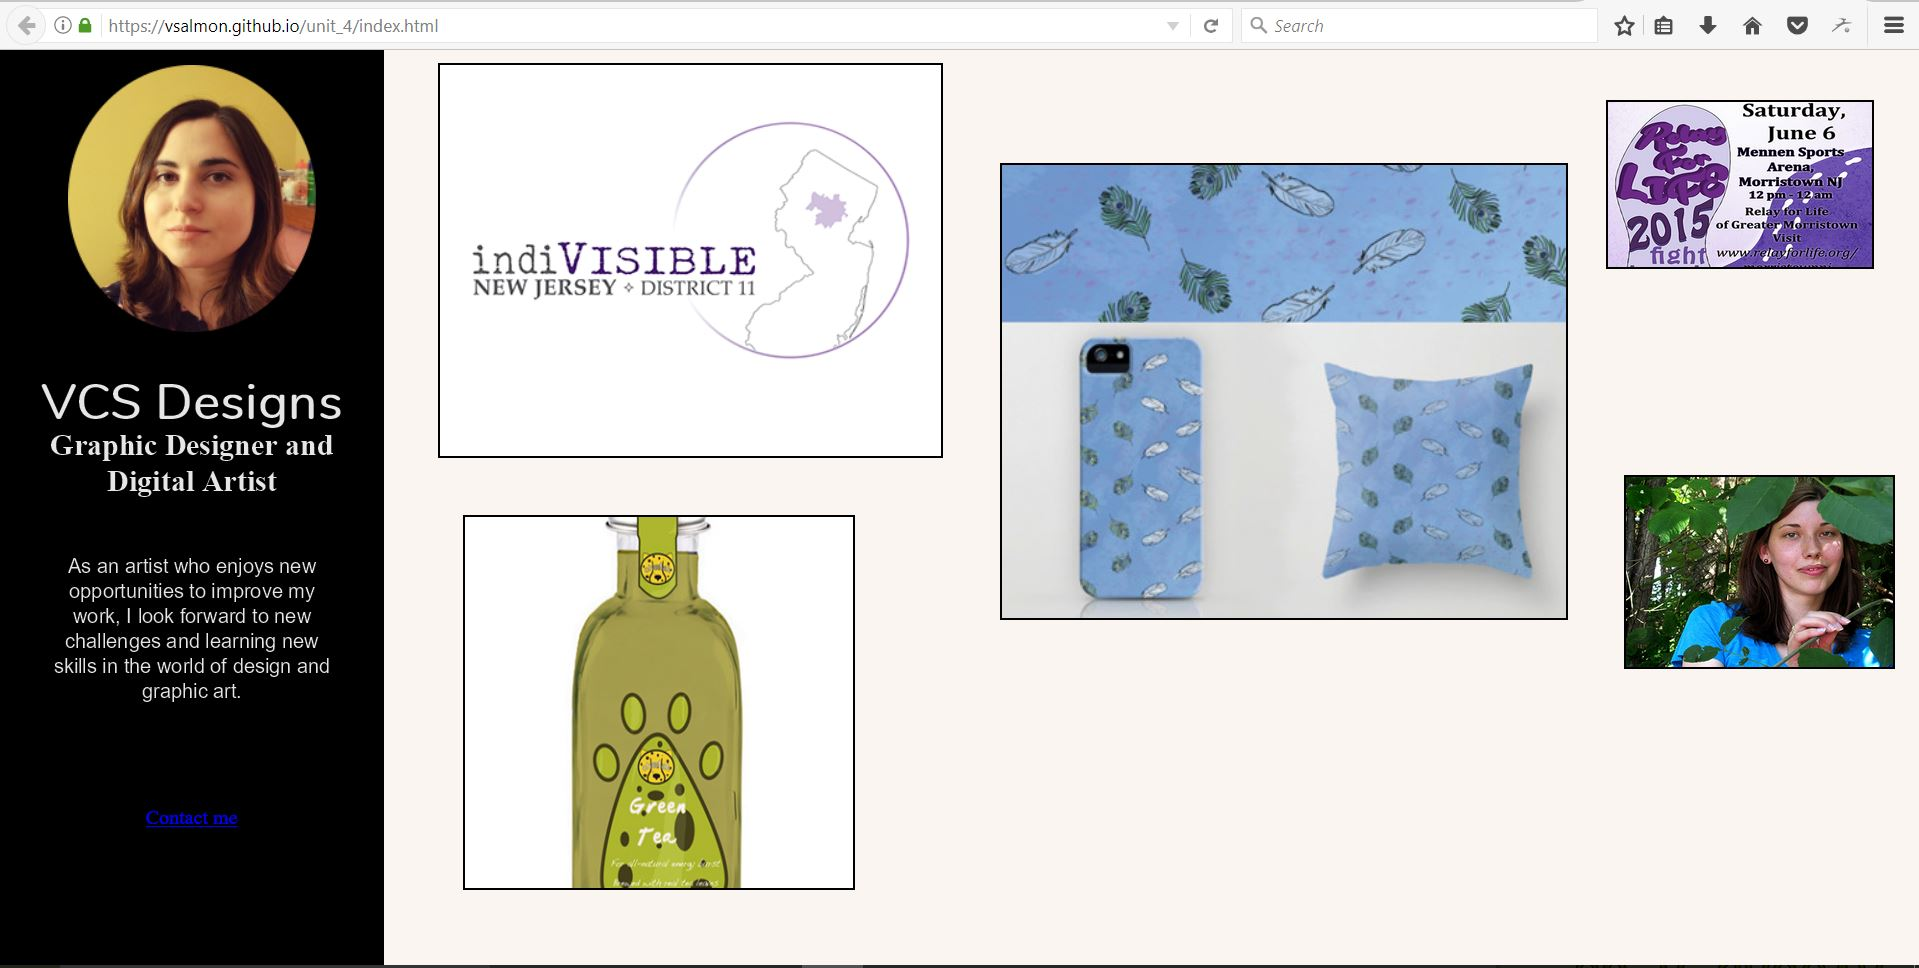
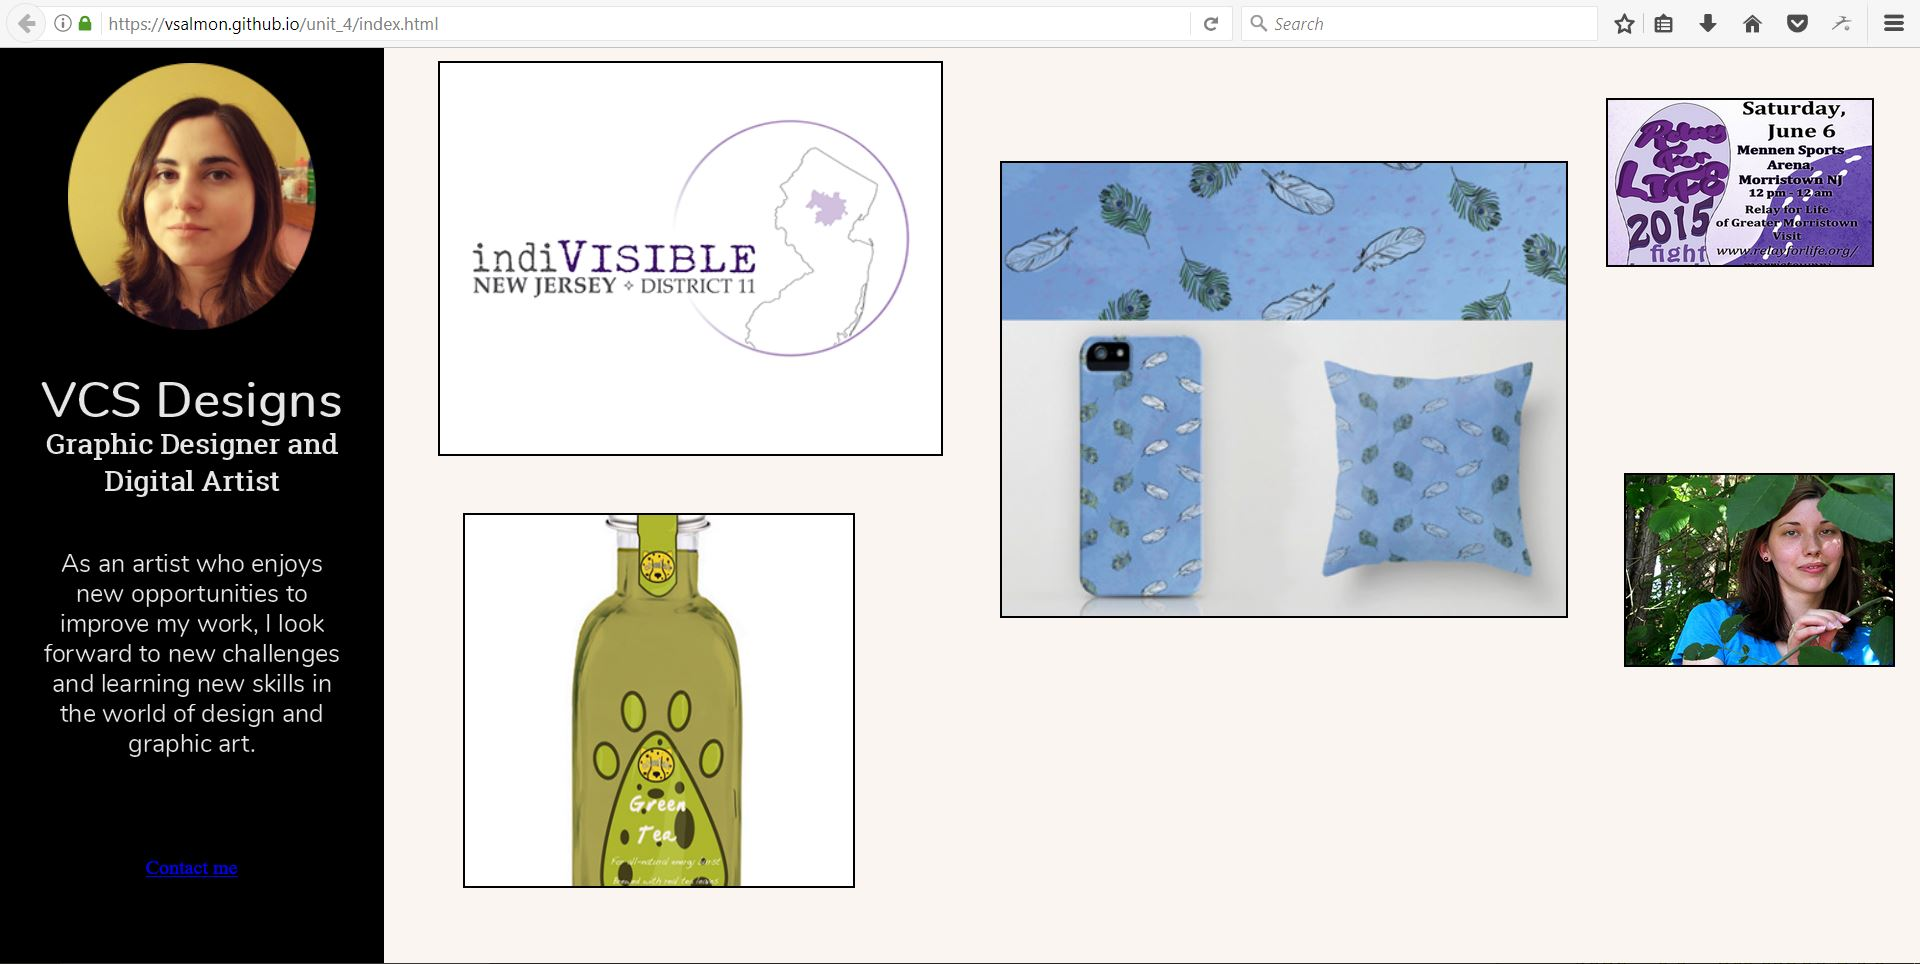
adding Unit 5

diff --git a/unit_5/css/style.css b/unit_5/css/style.css
@@ -12,9 +12,10 @@ body {
 div#sidebar {
 	width: 20%;
 	height: 100%;
-	background: #000000;
+	background: #FFE2B8;
+	border: 1px black solid;
 	margin: 0 auto;
-	padding: 10px;
+	padding: 20px;
 	position: fixed;
 	top: 0;
 	text-align: center;
@@ -68,7 +69,10 @@ div#sidebar {
 }
 
 #article {
-	min-height: 100%;
+	height: 800px;
+	background-color: #E89C6C;
+	border: 1px black solid;
+	padding: 20px;
 }
 
 h1,h2, p {
@@ -90,14 +94,32 @@ h2 {
 p {
 	font-family: 'Nunito';
 	margin: 1em;
-	line-height: 1.2em;
-	font-size: 20px;
+	line-height: 1em;
+	font-size: 15px;
 }
 
 img {
 	border: 2px solid;
 	border-color: rgba(0,0,0,1);
 	background-color: white;
+}
+
+header {
+	background-color: #FFED74;
+	border: 1px black solid;
+	padding: 20px;
+}
+
+nav {
+	background-color: #E8C66A;
+	border: 1px black solid;
+	padding: 20px;
+}
+
+aside {
+	background-color: #FFC675;
+	border: 1px black solid;
+	padding: 20px;
 }
 
 footer {
@@ -108,6 +130,9 @@ footer {
 	bottom: 0;
 	width: 100%;
 	height: 30px;
-	padding: 0;
+	background-color: #FF957E;
+	border: 1px black solid;
+	padding: 20px;
 	margin: 0;
 }
+

diff --git a/unit_5/index.html b/unit_5/index.html
@@ -15,8 +15,6 @@
 				<p>As an artist who enjoys new opportunities to improve my work, I look forward to new challenges and learning new skills in the world of design and graphic art.</p>
 			</aside>
 			<br>
-			<br>
-			<br>
 			<nav>
 				<a href="mailto:valeriecsalmon@gmail.com"> Contact me</a>
 			</nav>
